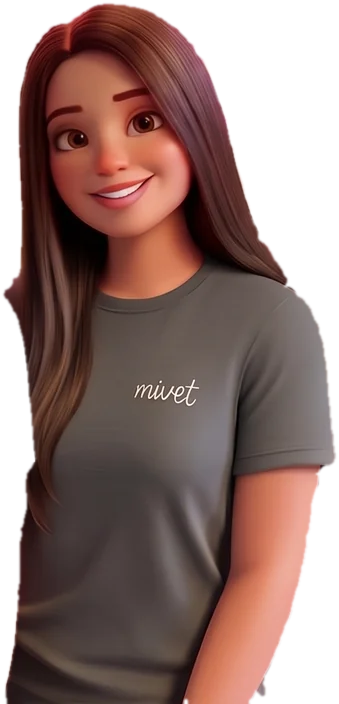
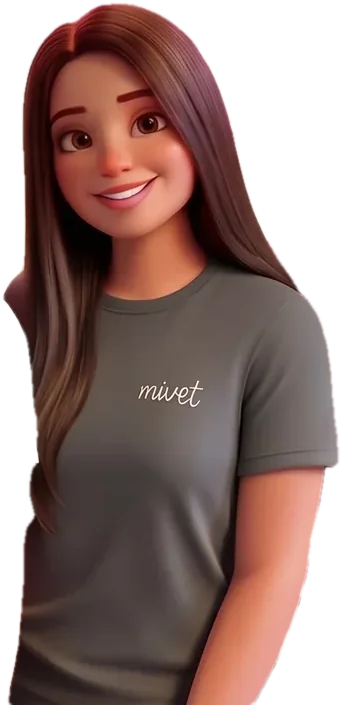
Equipo: halo con contorno suave y recortes refinados
Regenera la foto interactiva desde el codigo fuente (mainframe-agency, master a5b9646):
siluetas del halo (-halo.webp), recortes refinados, halo solo en cabeza y lado derecho,
brazo de Sole recto y borde del pelo de Sabri liso. Actualiza herramientas/equipo.

diff --git a/assets/equipo/equipo-interactivo.js b/assets/equipo/equipo-interactivo.js
@@ -13,19 +13,19 @@ const VARIANTES = {
   desktop: {
     w: 2000, h: 1116,
     personas: [
-      { x: 18.9, y: 35.932, w: 19.0, h: 64.068, hx: 29.0, hy: 36.29 },
-      { x: 36.25, y: 36.918, w: 16.95, h: 63.082, hx: 41.95, hy: 37.28 },
-      { x: 49.45, y: 33.423, w: 17.0, h: 66.577, hx: 56.55, hy: 33.78 },
-      { x: 64.15, y: 30.108, w: 19.1, h: 69.892, hx: 71.25, hy: 30.47 },
+      { x: 18.9, y: 35.753, w: 19.05, h: 64.247, hx: 29.0, hy: 36.11 },
+      { x: 36.05, y: 36.828, w: 17.1, h: 63.172, hx: 41.95, hy: 37.19 },
+      { x: 49.45, y: 33.333, w: 17.1, h: 66.667, hx: 56.5, hy: 33.69 },
+      { x: 63.9, y: 29.928, w: 19.4, h: 70.072, hx: 71.05, hy: 30.29 },
     ],
   },
   mobile: {
     w: 1116, h: 2000,
     personas: [
-      { x: 0.0, y: 35.35, w: 29.391, h: 64.65, hx: 13.08, hy: 35.55 },
-      { x: 22.76, y: 35.95, w: 33.602, h: 64.05, hx: 35.84, hy: 36.15 },
-      { x: 47.939, y: 33.8, w: 32.885, h: 66.2, hx: 60.13, hy: 34.0 },
-      { x: 75.269, y: 31.85, w: 24.731, h: 68.15, hx: 86.38, hy: 32.05 },
+      { x: 0.0, y: 35.3, w: 29.57, h: 64.7, hx: 12.9, hy: 35.5 },
+      { x: 22.76, y: 35.9, w: 33.602, h: 64.1, hx: 35.93, hy: 36.1 },
+      { x: 47.939, y: 33.75, w: 32.527, h: 66.25, hx: 60.22, hy: 33.95 },
+      { x: 75.179, y: 31.8, w: 24.821, h: 68.2, hx: 86.29, hy: 32.0 },
     ],
   },
 }
@@ -51,7 +51,9 @@ const CSS = `
 .eq-dim{position:absolute;inset:0;background:rgba(18,8,16,.6);opacity:0;transition:opacity .35s ease;pointer-events:none}
 .eq-root.eq-activa .eq-dim{opacity:1}
 .eq-figura,.eq-halo{opacity:0;transition:opacity .35s ease;will-change:opacity}
-.eq-halo{filter:drop-shadow(0 0 3px rgba(255,170,215,.95)) drop-shadow(0 0 10px rgba(255,92,170,.9)) drop-shadow(0 0 26px rgba(255,64,160,.65))}
+/* El blur inicial difumina el borde de la silueta: sin él, el primer resplandor dibuja un filo
+   claro y de grosor irregular pegado al cuerpo. */
+.eq-halo{filter:blur(5px) drop-shadow(0 0 6px rgba(255,150,205,.9)) drop-shadow(0 0 14px rgba(255,92,170,.9)) drop-shadow(0 0 26px rgba(255,64,160,.65))}
 .eq-figura.eq-on{opacity:1}
 .eq-halo.eq-on{opacity:1;animation:eq-latido 2.4s ease-in-out .35s infinite}
 @keyframes eq-latido{50%{opacity:.7}}
@@ -116,11 +118,12 @@ function construir(root, clave, alEstado) {
   const nombres = []
   const imagenes = [base]
   v.personas.forEach((p, i) => {
-    // Dos capas por persona: el halo (con el brillo, fijo) y la figura nítida encima.
+    // Dos capas por persona: el halo (silueta suavizada, de color liso, con el brillo fijo) y la
+    // figura nítida encima (recorte exacto).
     for (const clase of ['eq-halo', 'eq-figura']) {
       const f = document.createElement('img')
       f.className = clase
-      f.src = `${BASE}equipo-${clave}-${i + 1}.webp`
+      f.src = `${BASE}equipo-${clave}-${i + 1}${clase === 'eq-halo' ? '-halo' : ''}.webp`
       f.alt = ''
       Object.assign(f.style, { left: `${p.x}%`, top: `${p.y}%`, width: `${p.w}%`, height: `${p.h}%` })
       stage.appendChild(f)

diff --git a/herramientas/equipo/generar_recortes.py b/herramientas/equipo/generar_recortes.py
@@ -6,6 +6,7 @@ Uso:
 Produce, para cada variante (desktop / mobile):
     equipo-<variante>.webp           foto completa
     equipo-<variante>-<n>.webp       recorte con transparencia de la persona n (izq. a der.)
+    equipo-<variante>-<n>-halo.webp  silueta suavizada y de color liso, solo para dibujar el halo
     equipo-<variante>-mapa.png       mapa a 1/4 de resolución (gris = n * 60) para saber
                                      qué persona está bajo el cursor
 e imprime el bloque VARIANTES para pegar en equipo-interactivo.js.
@@ -23,7 +24,138 @@ from PIL import Image
 from ultralytics import SAM, YOLO
 
 MAPA_ESCALA = 4
+SUAVIZADO_BORDE = 4  # px de arco para promediar el contorno del recorte (0 = sin suavizar)
 MAPA_PASO = 60
+# El halo se dibuja con una silueta aparte, suavizada, para que el contorno no ondule con los
+# detalles del recorte (pelo, mangas). Se desenfoca la máscara (HALO_SIGMA px, en una foto de
+# 2000 px de ancho) y se vuelve a binarizar con un umbral bajo (HALO_UMBRAL), que la agranda un
+# par de px: así nunca deja pelo o ropa fuera del halo. La silueta no puede crecer más de
+# HALO_TOPE px, para no rellenar con rosa liso los huecos entre dos personas. Además, todas
+# menos la primera se apoyan en la persona de su izquierda: ahí el halo se omite en el cuerpo
+# (queda la cabeza y el lado derecho) y se desvanece de a poco desde el cuello hacia abajo.
+# En mobile la foto se ve más chica, así que las medidas en px se multiplican por ESCALA_HALO.
+HALO_SIGMA = 10
+HALO_UMBRAL = 0.38
+HALO_TOPE = 8
+HALO_CABEZA = 0.30   # alto de la cabeza (con el pelo), como fracción del alto de la persona
+HALO_RAMPA = 0.12    # tramo (fracción del alto) en que el lado izquierdo se va apagando
+HALO_INSET = 70      # px que se recorta del borde izquierdo del cuerpo, al final de la rampa
+HALO_CORTE_SIGMA = 35  # px de suavizado vertical de la línea de corte (más = baja más lisa)
+ESCALA_HALO = {"desktop": 1.0, "mobile": 1.4}
+HALO_COLOR = (255, 150, 205)
+
+
+def silueta_halo(m, variante, sin_lado_izq=False):
+    """m: máscara 0/1 del recorte -> RGBA liso con el contorno suavizado."""
+    f = ESCALA_HALO.get(variante, 1.0)
+    sigma = HALO_SIGMA * f
+    pad = int(sigma * 4)
+    g = cv2.GaussianBlur(np.pad(m.astype(np.float32), pad), (0, 0), sigma)
+    s = (g > HALO_UMBRAL).astype(np.uint8)[pad:-pad, pad:-pad]
+    tope = int(round(HALO_TOPE * f))
+    s &= cv2.dilate(m.astype(np.uint8), cv2.getStructuringElement(cv2.MORPH_ELLIPSE, (2 * tope + 1, 2 * tope + 1)))
+    if sin_lado_izq:
+        ys, xs = np.where(s > 0)
+        arriba, abajo = ys.min(), ys.max()
+        alto = abajo - arriba
+        corte, rampa = arriba + HALO_CABEZA * alto, max(1.0, HALO_RAMPA * alto)
+        filas = np.arange(arriba, abajo + 1)
+        borde = np.array([np.flatnonzero(s[y])[0] if s[y].any() else np.nan for y in filas], np.float32)
+        borde = np.where(np.isnan(borde), np.nanmean(borde), borde)
+        # el corte es el borde izquierdo corrido hacia adentro (de a poco desde el cuello); se lo
+        # suaviza como curva para que no copie los dientes del pelo y baje liso
+        corrido = borde + HALO_INSET * f * np.clip((filas - corte) / rampa, 0, 1)
+        sg = HALO_CORTE_SIGMA * f
+        r = int(sg * 3)
+        k = np.exp(-0.5 * (np.arange(-r, r + 1) / sg) ** 2)
+        k /= k.sum()
+        liso = np.convolve(np.pad(corrido, r, mode="edge"), k, "valid")
+        for y, x in zip(filas, np.maximum(liso, borde)):
+            s[y, : int(round(x))] = 0
+        s = (cv2.GaussianBlur(s.astype(np.float32), (0, 0), 2.0) > 0.5).astype(np.uint8)
+    alfa = cv2.GaussianBlur(s * 255, (0, 0), 1.0)
+    rgb = np.empty(m.shape + (3,), np.uint8)
+    rgb[:] = HALO_COLOR
+    return np.dstack([rgb, alfa])
+
+
+def _el(n):
+    return cv2.getStructuringElement(cv2.MORPH_ELLIPSE, (2 * n + 1, 2 * n + 1))
+
+
+def _suavizar_contorno(m, sigma):
+    """Promedia el contorno (externo y de huecos) a lo largo del borde: quita escalones y
+    ondas chicas sin mover el borde más de ~1 px, porque ya está sobre el borde real."""
+    pad = 4 * int(sigma) + 4
+    mm = np.pad(m.astype(np.uint8), pad)
+    cs, jer = cv2.findContours(mm, cv2.RETR_CCOMP, cv2.CHAIN_APPROX_NONE)
+    r = int(sigma * 3)
+    k = np.exp(-0.5 * (np.arange(-r, r + 1) / sigma) ** 2)
+    k /= k.sum()
+    minimo = 0.001 * mm.sum()
+    out = np.zeros_like(mm)
+    for c, h in zip(cs, jer[0]):
+        if abs(cv2.contourArea(c)) < minimo:
+            continue
+        c = c[:, 0, :].astype(np.float32)
+        if len(c) > 2 * r + 1:
+            e = np.pad(c, ((r, r), (0, 0)), mode="wrap")
+            c = np.stack([np.convolve(e[:, 0], k, "valid"), np.convolve(e[:, 1], k, "valid")], 1)
+        cv2.fillPoly(out, [np.round(c).astype(np.int32)], 0 if h[3] >= 0 else 1)
+    return out[pad:-pad, pad:-pad]
+
+
+def refinar(img, mascaras, banda=9, iters=6):
+    """SAM predice la máscara a baja resolución y la agranda: el borde queda impreciso (corta pelo,
+    hace bucles en las manos) y se nota como serrucho. Acá se ajusta a los bordes reales de la foto
+    con GrabCut, solo dentro de una franja de `banda` px, y respetando el corte entre personas."""
+    H, W = img.shape[:2]
+    bgr = cv2.cvtColor(img, cv2.COLOR_RGB2BGR)
+    salida = []
+    for i, m in enumerate(mascaras):
+        m = m.astype(np.uint8)
+        ys, xs = np.where(m > 0)
+        p = banda + 12
+        x0, x1 = max(0, xs.min() - p), min(W, xs.max() + 1 + p)
+        y0, y1 = max(0, ys.min() - p), min(H, ys.max() + 1 + p)
+        mc = m[y0:y1, x0:x1]
+        otras = np.zeros_like(mc)
+        for j, o in enumerate(mascaras):
+            if j != i: otras |= o[y0:y1, x0:x1].astype(np.uint8)
+        otras = cv2.dilate(otras,  _el(4))
+        gc = np.full(mc.shape, cv2.GC_PR_BGD, np.uint8)
+        gc[mc > 0] = cv2.GC_PR_FGD
+        gc[cv2.erode(mc,  _el(banda)) > 0] = cv2.GC_FGD
+        gc[cv2.dilate(mc,  _el(banda)) == 0] = cv2.GC_BGD
+        # donde hay otra persona pegada, se respeta el corte original
+        gc[(otras > 0) & (mc > 0)] = cv2.GC_FGD
+        gc[(otras > 0) & (mc == 0)] = cv2.GC_BGD
+        bg = np.zeros((1, 65)); fg = np.zeros((1, 65))
+        cv2.grabCut(bgr[y0:y1, x0:x1], gc, None, bg, fg, iters, cv2.GC_INIT_WITH_MASK)
+        r = ((gc == cv2.GC_FGD) | (gc == cv2.GC_PR_FGD)).astype(np.uint8)
+        r = _suavizar_contorno(r, SUAVIZADO_BORDE)
+        full = np.zeros((H, W), np.uint8); full[y0:y1, x0:x1] = r
+        salida.append(full)
+    return salida
+
+
+# Tramos donde el refinado empeora el recorte (GrabCut se confunde cuando dos zonas contiguas
+# tienen colores parecidos) y conviene quedarse con el recorte original del modelo. Se declaran
+# como variante -> persona (0 = la primera de la izquierda) -> lista de cajas
+# (x0, y0, x1, y1, en px de la foto). Fuera de la caja no cambia nada.
+# Sole (desktop): debajo de la manga izquierda el refinado metía una "panza" hacia adentro.
+RESTAURAR_ORIGINAL = {
+    "desktop": {0: [(395, 845, 485, 945)]},
+}
+
+
+def restaurar_original(refinadas, originales, variante):
+    salida = [m.copy() for m in refinadas]
+    for i, cajas in RESTAURAR_ORIGINAL.get(variante, {}).items():
+        for x0, y0, x1, y1 in cajas:
+            salida[i][y0:y1, x0:x1] = originales[i][y0:y1, x0:x1]
+        salida[i] = _suavizar_contorno(salida[i], SUAVIZADO_BORDE)  # une el tramo con el resto
+    return salida
 
 
 def segmentar(ruta, n_personas, yolo, sam):
@@ -71,6 +203,38 @@ def limpiar(m, W, H):
     return cv2.morphologyEx(out, cv2.MORPH_OPEN, np.ones((3, 3), np.uint8))
 
 
+# Tramos de borde casi vertical (pelo lacio) que en la foto ondulan ~1 px y se ven como serrucho.
+# Se ajusta una curva suave (polinomio de grado 3) al borde izquierdo y se dibuja la transparencia
+# con cobertura fraccional de píxel (subpíxel), así no queda escalera. Se mezcla con el borde
+# real en los extremos del tramo para que no haya un escalón. Cambia solo la transparencia, no la
+# máscara. variante -> persona (0 = la primera de la izquierda) -> lista de (y0, y1), en px.
+# Sabri (desktop): el borde izquierdo del pelo debe bajar liso.
+RECTIFICAR_BORDE = {
+    "desktop": {3: [(440, 585)]},
+}
+RECTIFICAR_TRANSICION = 24
+
+
+def rectificar_borde(alfa, variante, i):
+    alfa = alfa.copy()
+    for y0, y1 in RECTIFICAR_BORDE.get(variante, {}).get(i, []):
+        ys = np.arange(y0, y1)
+        xold = []
+        for y in ys:
+            xi = int(np.flatnonzero(alfa[y] > 127)[0])
+            seg = alfa[y, xi - 4 : xi + 5] / 255.0
+            xold.append(xi - 4 + (9 - seg.sum()))
+        xold = np.array(xold)
+        xfit = np.polyval(np.polyfit(ys, xold, 3), ys)
+        w = np.clip(np.minimum(ys - y0, y1 - 1 - ys) / RECTIFICAR_TRANSICION, 0, 1)
+        w = w * w * (3 - 2 * w)
+        xnew = xold + w * (xfit - xold)
+        for y, x in zip(ys, xnew):
+            cols = np.arange(int(x) - 4, int(x) + 5)
+            alfa[y, cols] = (np.clip(cols + 1 - x, 0, 1) * 255).astype(alfa.dtype)
+    return alfa
+
+
 def exportar(img, mascaras, variante, salida):
     H, W = img.shape[:2]
     mascaras = [limpiar(m, W, H) for m in mascaras]
@@ -87,9 +251,11 @@ def exportar(img, mascaras, variante, salida):
         pad = 4
         x0, y0 = max(0, xs.min() - pad), max(0, ys.min() - pad)
         x1, y1 = min(W, xs.max() + 1 + pad), min(H, ys.max() + 1 + pad)
-        alfa = cv2.GaussianBlur((m * 255).astype(np.uint8), (0, 0), 1.0)
+        alfa = rectificar_borde(cv2.GaussianBlur((m * 255).astype(np.uint8), (0, 0), 1.0), variante, i)
         rgba = np.dstack([img, alfa])[y0:y1, x0:x1]
         Image.fromarray(rgba, "RGBA").save(f"{salida}/equipo-{variante}-{i + 1}.webp", quality=85, method=6)
+        halo = silueta_halo(m, variante, i > 0)[y0:y1, x0:x1]
+        Image.fromarray(halo, "RGBA").save(f"{salida}/equipo-{variante}-{i + 1}-halo.webp", quality=80, method=6)
         arriba = ys.min()
         cx = int(xs[ys < arriba + 40].mean())
         personas.append(dict(
@@ -111,6 +277,8 @@ def main():
     variantes = {}
     for variante, ruta in [("desktop", a.desktop), ("mobile", a.mobile)]:
         img, mascaras = segmentar(ruta, a.personas, yolo, sam)
+        originales = mascaras
+        mascaras = restaurar_original(refinar(img, mascaras), originales, variante)
         variantes[variante] = exportar(img, mascaras, variante, a.salida)
         print(f"{variante}: listo")
     print("\nPegá esto como VARIANTES en equipo-interactivo.js:\n")

diff --git a/herramientas/equipo/README.md b/herramientas/equipo/README.md
@@ -12,7 +12,7 @@ Este repositorio no tiene el código fuente, así que el cambio se hizo de dos f
 
 1. **Archivos nuevos e independientes**, que se copian tal cual:
    - `assets/equipo/equipo-interactivo.js`: toda la lógica y los estilos del efecto, sin dependencias.
-   - `assets/equipo/equipo-desktop*.webp|png` y `assets/equipo/equipo-mobile*.webp|png`: la foto, los recortes y los mapas.
+   - `assets/equipo/equipo-desktop*.webp|png` y `assets/equipo/equipo-mobile*.webp|png`: la foto, los recortes, las siluetas del halo (`*-halo.webp`) y los mapas.
 2. **Una edición a mano del archivo compilado** `assets/index-B4mWpphv.js`, en la función de la página `/equipo`.
 
 ⚠ La segunda parte **se pierde la próxima vez que compiles desde el código fuente**. Antes de volver a publicar algo desde la VM, aplicá los pasos de abajo. Si no, `/equipo` vuelve a mostrar la foto vieja sin efecto.
@@ -132,7 +132,7 @@ Todo está en `public/assets/equipo/equipo-interactivo.js` (en este repositorio,
 | Qué | Dónde |
 |---|---|
 | Nombres | `const NOMBRES = ['Sole', 'Rocío', 'Majo', 'Sabri']` (de izquierda a derecha) |
-| Color del halo | Los `rgba(255, …)` de `.eq-halo`, `.eq-nombre` y `@keyframes eq-latido` en el bloque `CSS` |
+| Color e intensidad del halo | El `blur()` y los `rgba(255, …)` de `.eq-halo`, `.eq-nombre` y `@keyframes eq-latido` en el bloque `CSS` |
 | Cuánto se oscurece el resto | `.eq-dim{… background:rgba(18,8,16,.6)}`: el último número va de 0 (nada) a 1 (negro) |
 | Textos de ayuda | `'Tocá a cada una para conocerla'` / `'Pasá el cursor para conocer al equipo'` |
 | Encuadre vertical de la foto | `const POS_Y = 0.7` (0 = arriba, 1 = abajo) |
@@ -156,7 +156,7 @@ python generar_recortes.py FOTO_HORIZONTAL.jpg FOTO_VERTICAL.jpg --personas 4
 
 ## Cómo funciona por dentro
 
-- La foto completa se muestra normal. Encima hay, por persona, dos copias de su recorte: una con el brillo rosa (`.eq-halo`) y otra nítida arriba (`.eq-figura`). Entre la foto y los recortes hay una capa oscura (`.eq-dim`).
+- La foto completa se muestra normal. Encima hay, por persona, dos capas: el halo (`.eq-halo`, que usa `equipo-*-N-halo.webp`: una silueta suavizada de color liso con el brillo rosa) y la figura nítida arriba (`.eq-figura`, el recorte exacto). En Rocío, Majo y Sabri el halo se omite en el lado izquierdo del cuerpo (se apoyan en la persona de al lado): queda la cabeza y el lado derecho, y se desvanece desde el cuello hacia abajo. Sole conserva el contorno completo, salvo un tramo del brazo izquierdo donde se usa el recorte original (`RESTAURAR_ORIGINAL` en `generar_recortes.py`: cajas donde el refinado empeora el borde). El borde izquierdo del pelo de Sabri (desktop) se endereza con una curva y transparencia subpíxel (`RECTIFICAR_BORDE`), porque en la foto ondula ~1 px y se veía como serrucho. La línea de corte del lado izquierdo se suaviza como curva (`HALO_CORTE_SIGMA`) para que no copie los dientes del pelo. El halo usa su propia silueta suavizada para que el contorno no ondule con los detalles del recorte (pelo, mangas); si la regenerás, los parámetros están al inicio de `generar_recortes.py` (`HALO_SIGMA`, `HALO_UMBRAL`, `HALO_TOPE`, `HALO_INSET`). Entre la foto y los recortes hay una capa oscura (`.eq-dim`).
 - Para saber qué persona está bajo el cursor se usa el **mapa** (`*-mapa.png`): una imagen chiquita donde cada píxel tiene el número de la persona (gris 60 = 1, 120 = 2, etc.). Por eso el efecto se activa solo sobre la silueta y no sobre el rectángulo del recorte.
 - El efecto se habilita recién cuando todas las imágenes terminaron de cargar, para que nunca se dibuje sobre un recorte a medio cargar.
 - En pantallas de hasta 767 px de ancho se usa la foto vertical. Si se gira el celular o cambia el tamaño de la ventana, cambia de foto sola.
